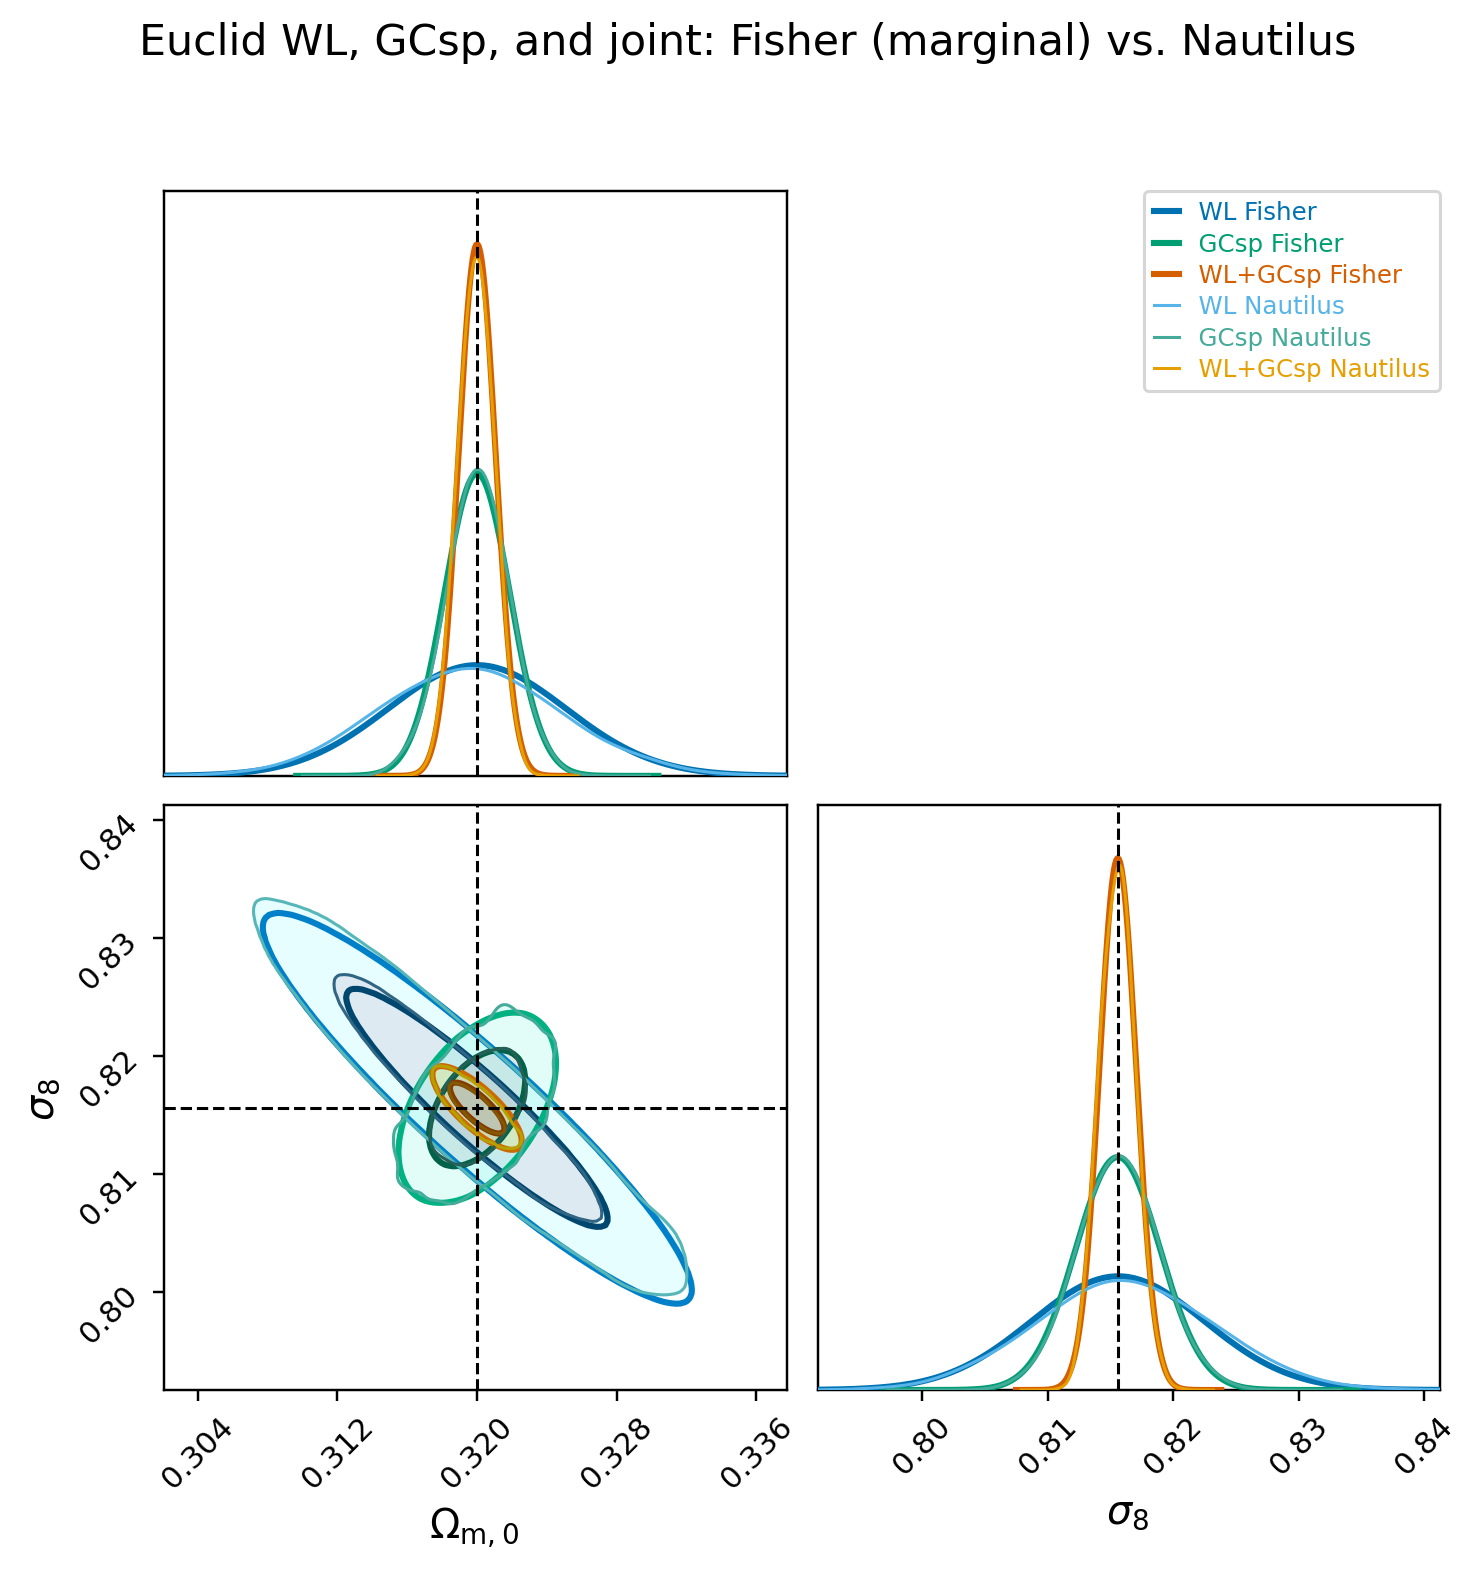
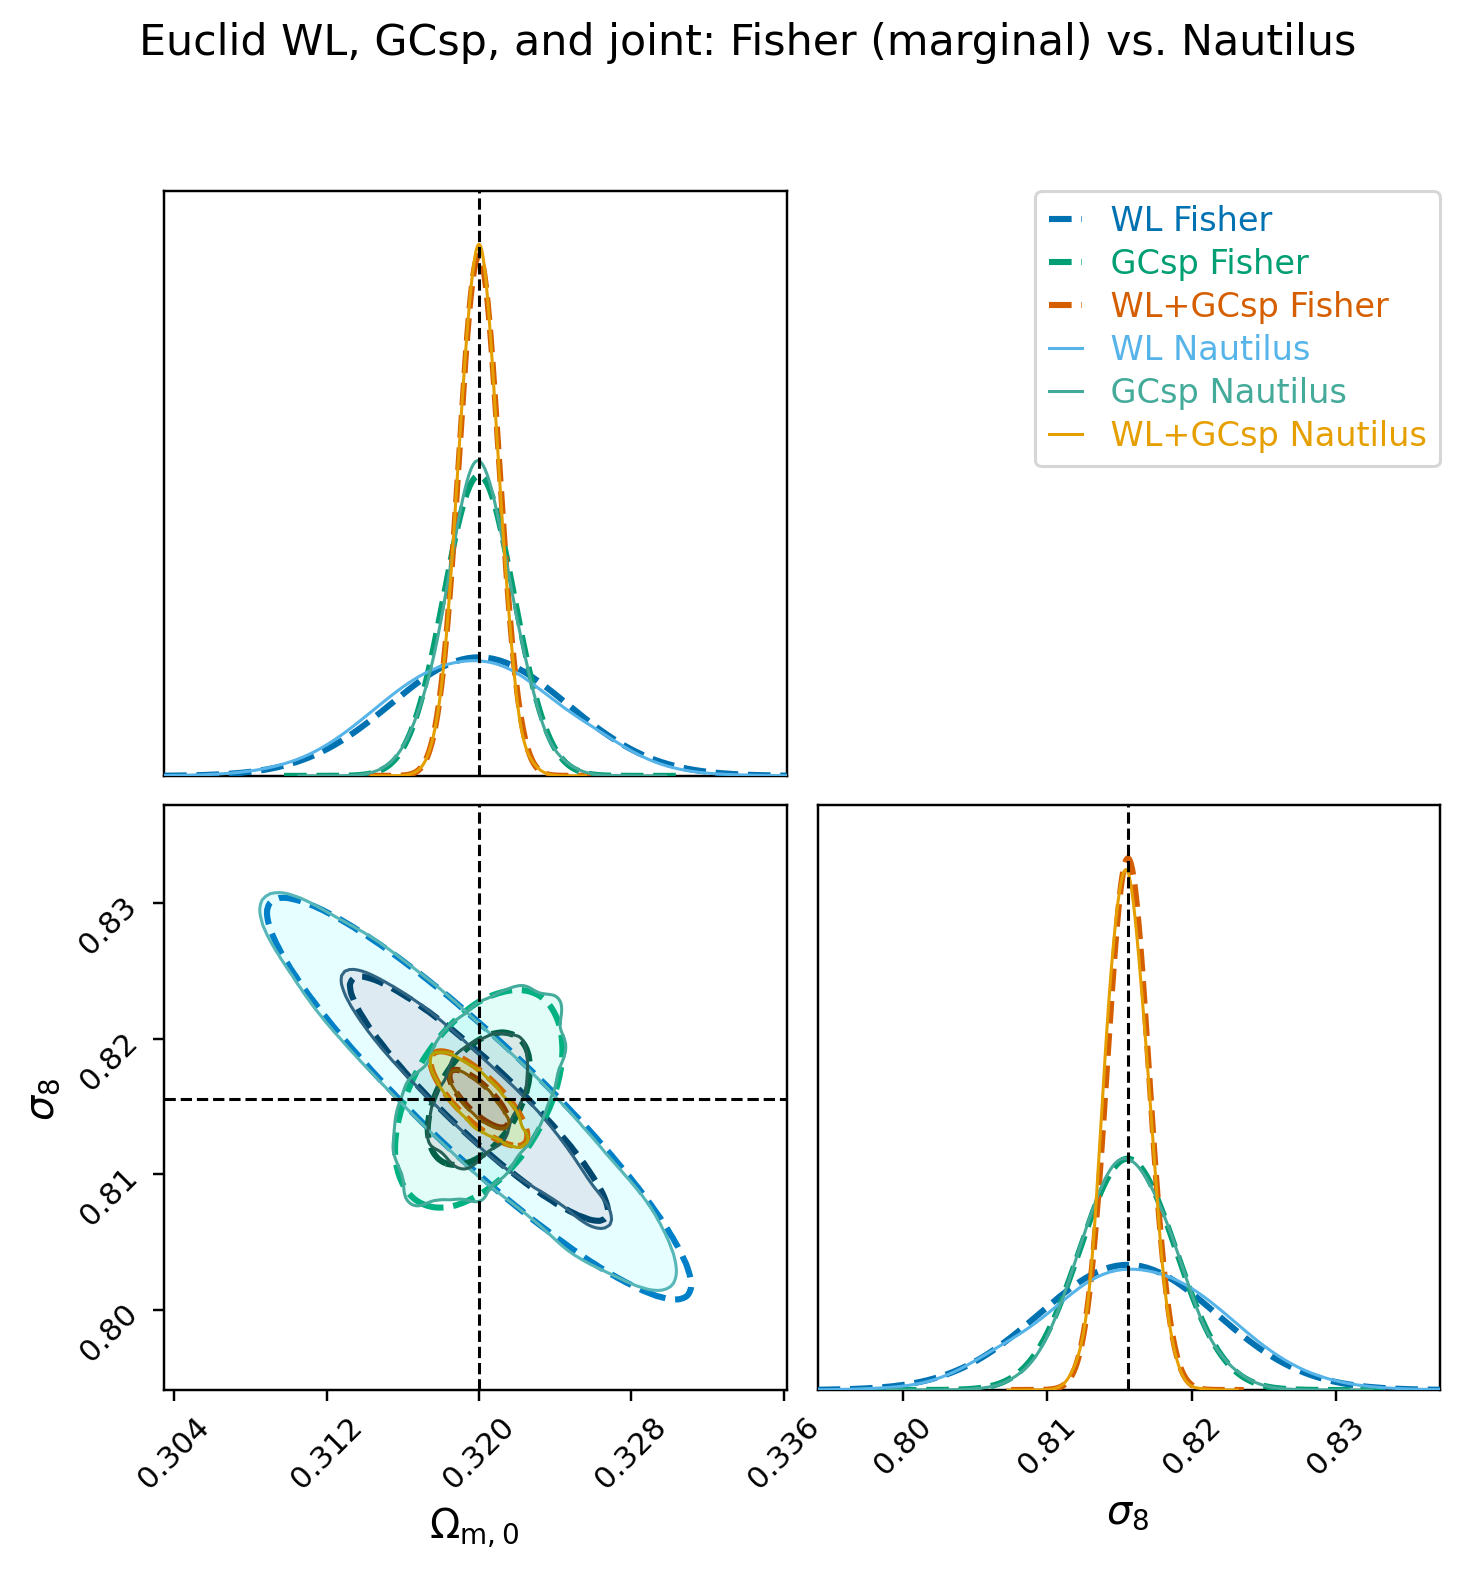
Figure 3: larger legend and dashed, unfilled Fisher contours
Nautilus stays solid and shaded; the Fisher forecasts are now dashed and
unfilled, so the two are distinguishable without relying on colour alone.
The joint-overview legend goes from 8pt to 11pt to match the tick labels.

Regenerated from scripts/paper-joss/output/nautilus_run with the joint
overview of render_likelihood_validation.py; the same PNG is used by the
docs at _static/likelihood_validation/.

diff --git a/scripts/likelihood/postprocess/render_likelihood_validation.py b/scripts/likelihood/postprocess/render_likelihood_validation.py
@@ -137,8 +137,9 @@ def _render_joint_overview(
         shade_fisher=False,
         shade_chains=True,
         shade_alpha=0.18,
+        ls_fisher="--",
         lw_fisher=2.0,
-        legend_kwargs={"fontsize": 8, "loc": "upper right", "frameon": True},
+        legend_kwargs={"fontsize": 11, "loc": "upper right", "frameon": True},
         label_font_size=13,
         tick_font_size=10,
         smooth=5,
